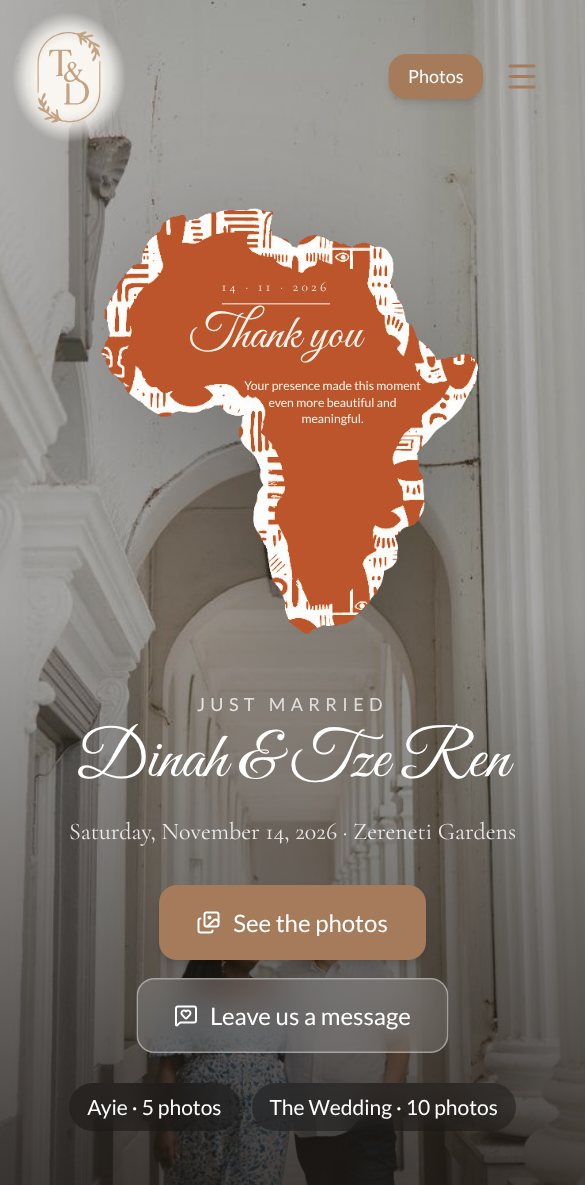
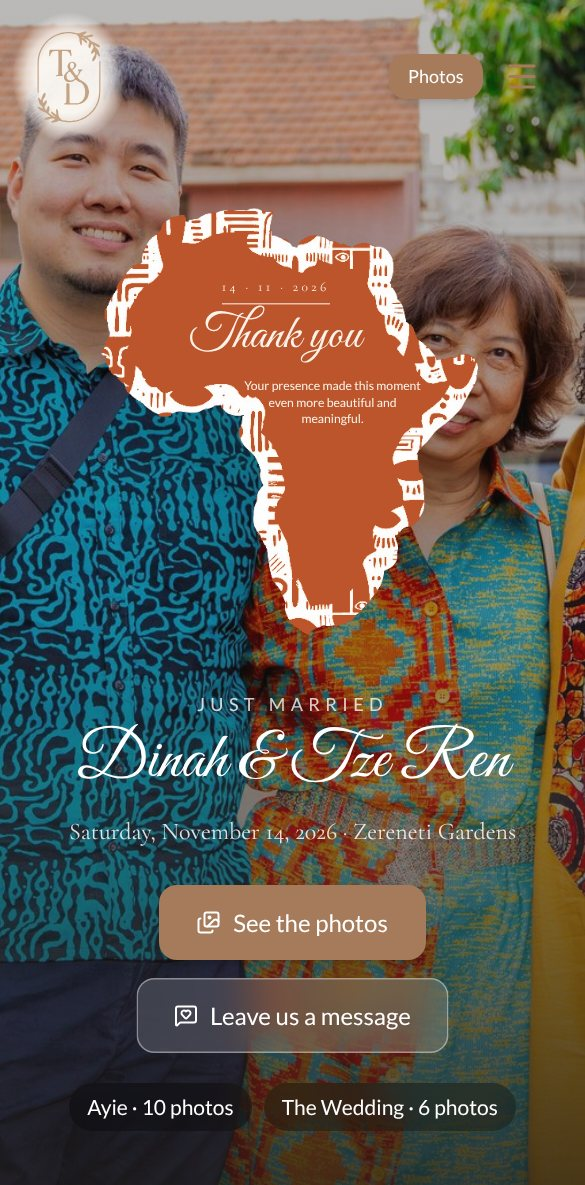
Thank-you tour: home page screens with the event photos
Claude-Session: https://claude.ai/code/session_01ABj656bzccx1uwGpAGVhx1

diff --git a/docs/thank-you-tour/README.md b/docs/thank-you-tour/README.md
@@ -40,7 +40,7 @@ cd docs/guest-tour/tools
 node capture-thankyou.cjs   # writes ../../thank-you-tour/screens and taps.json; uploads two photos locally
 ```
 
-`BASE=http://localhost:5173` points it at another dev server, and `SHARE_PHOTOS=a.jpg,b.jpg` picks the two photos the share step uploads. The guestbook and home page screens show no photos, so they can be kept from an earlier capture.
+`BASE=http://localhost:5173` points it at another dev server, and `SHARE_PHOTOS=a.jpg,b.jpg` picks the two photos the share step uploads. The guestbook screens show no photos, so they can be kept from an earlier capture. The home page screens are taken last; if the 30-a-minute limit on public requests empties its slideshow, wait a minute and take them again.
 
 ```bash
 TOUR=thank-you-tour node render.cjs full
